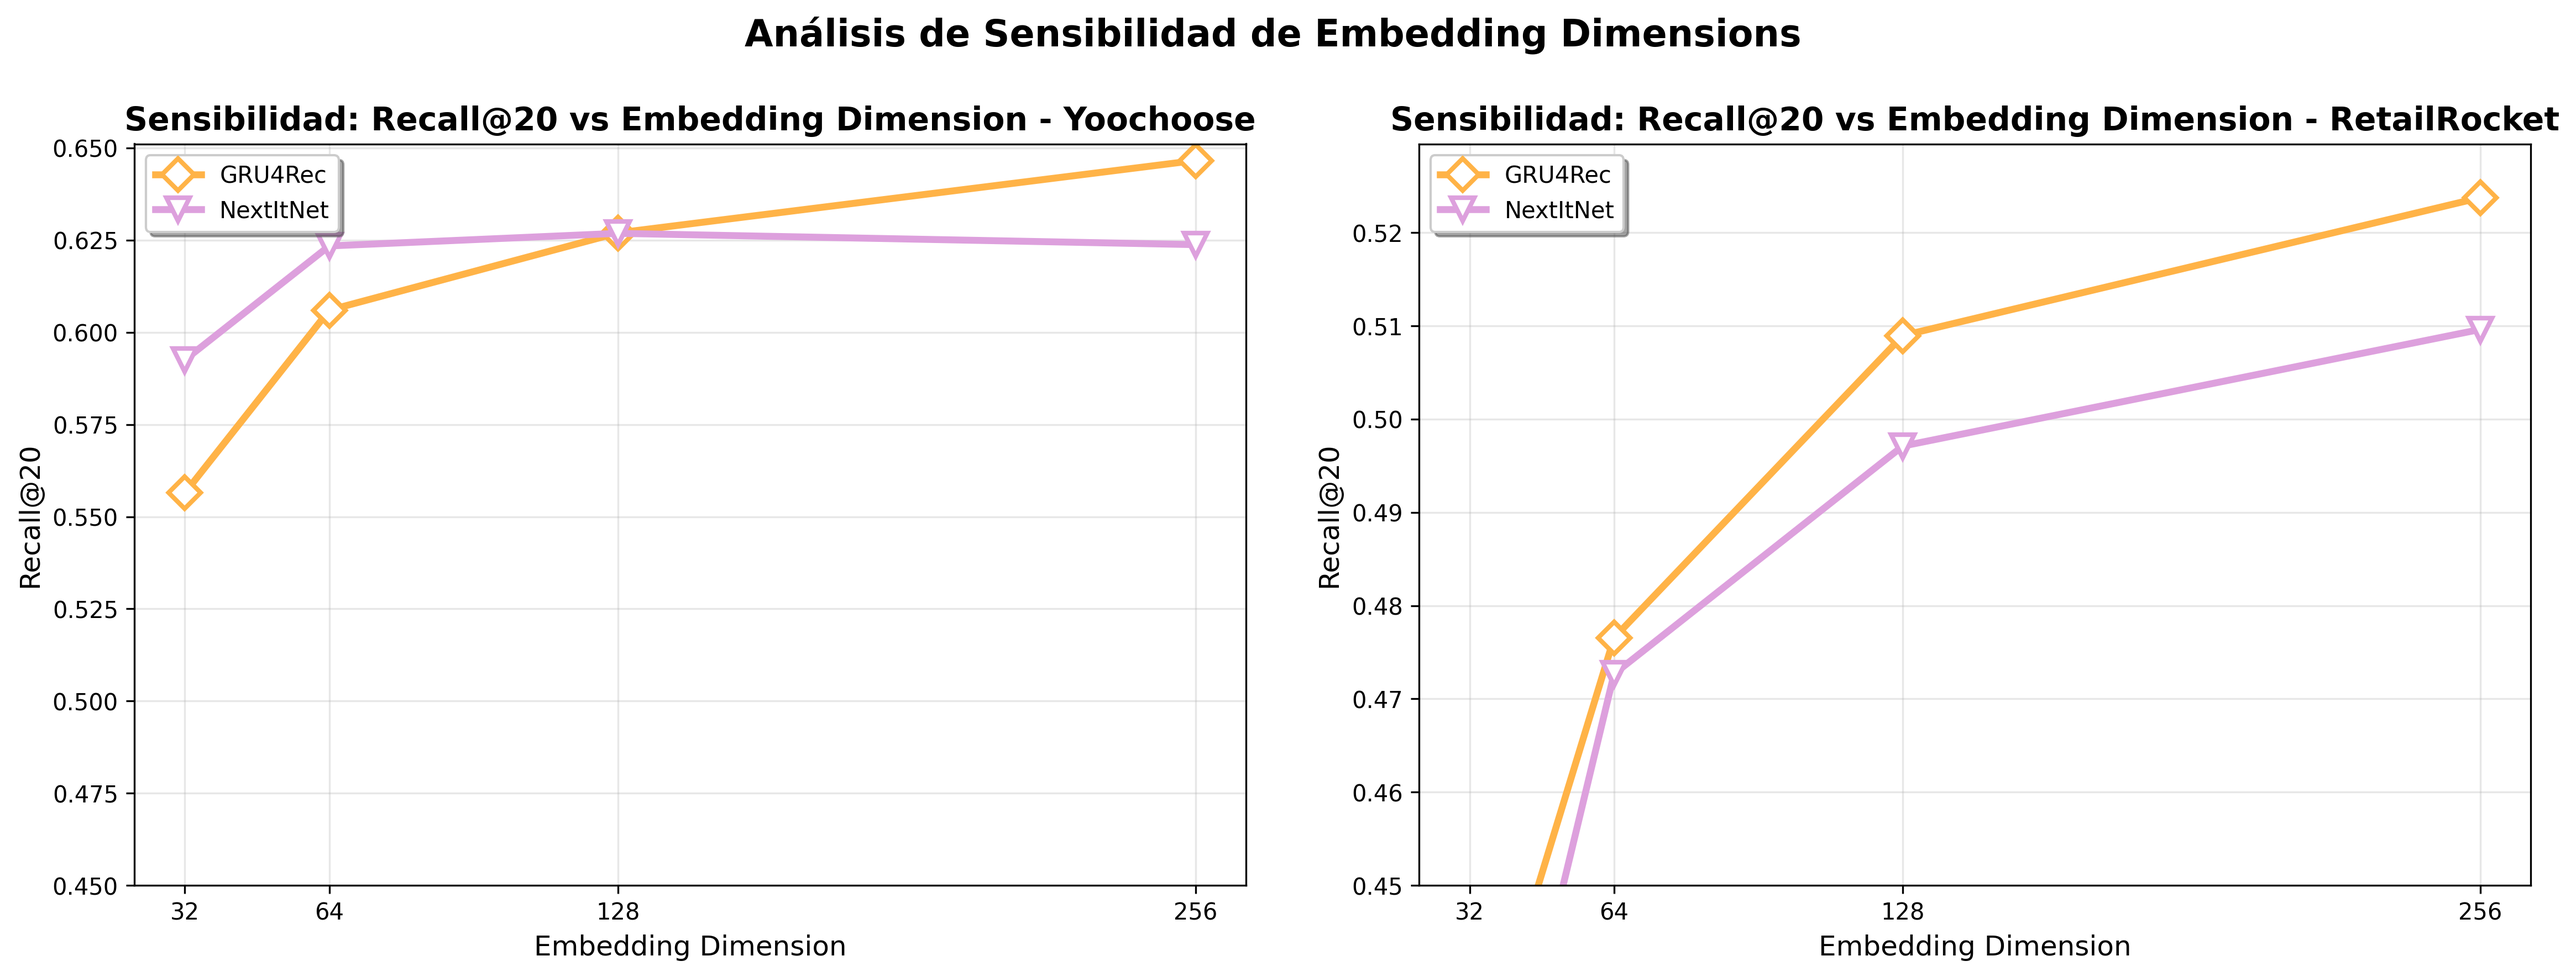
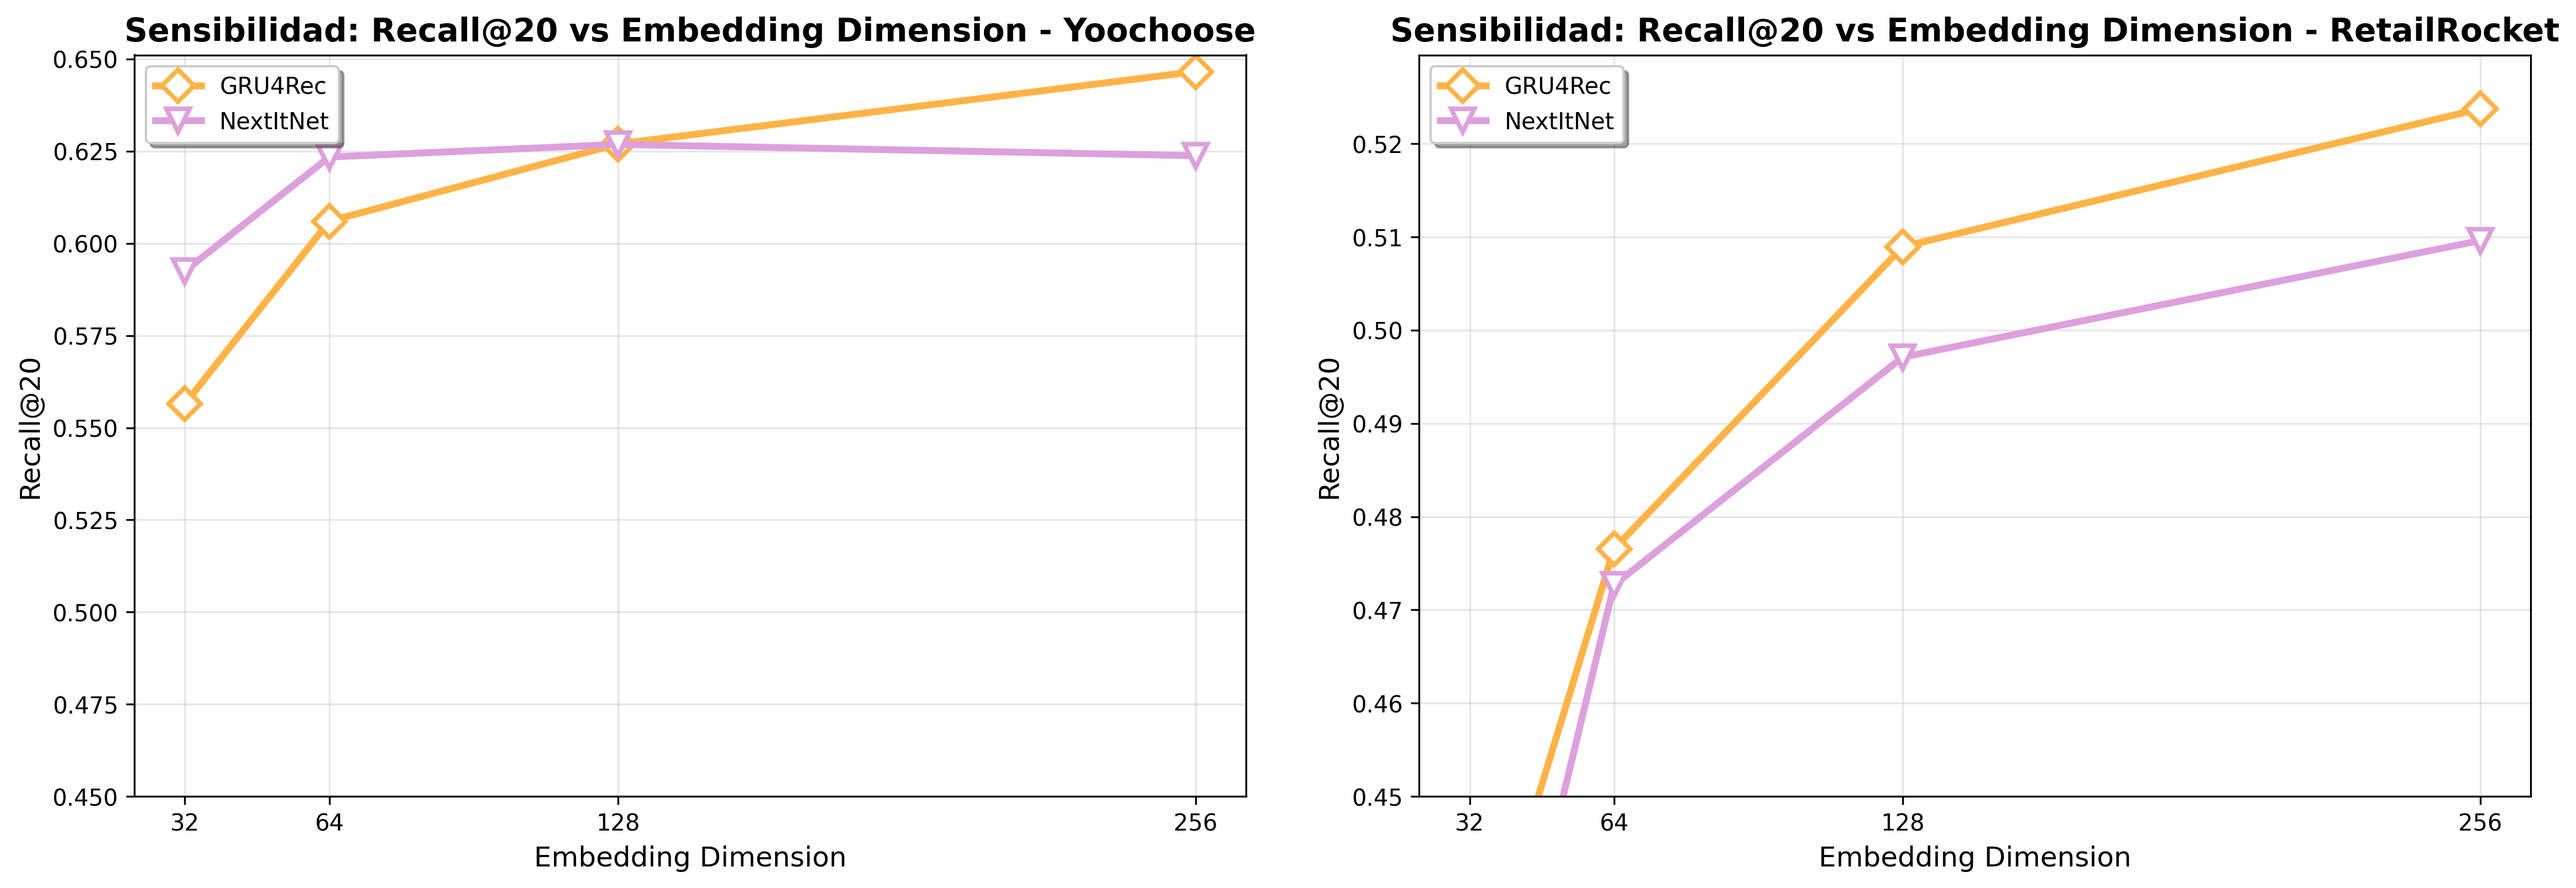
Add SASRec model support in graph_results.py, including new plots for ILD and Popularity Bias. Remove obsolete diversity_bias_analysis.png and update figure generation process to ensure all relevant graphs are created and saved in the figures directory.

diff --git a/graph_results.py b/graph_results.py
@@ -30,6 +30,8 @@ def load_results(outputs_dir="outputs"):
         'GRU_RetailRocket': ('RetailRocket', 'GRU4Rec'),
         'NextItNet_Yoochoose': ('Yoochoose', 'NextItNet'),
         'NextItNet_RetailRocket': ('RetailRocket', 'NextItNet'),
+        'SASRec_Yoochoose': ('Yoochoose', 'SASRec'),
+        'SASRec_RetailRocket': ('RetailRocket', 'SASRec'),
         'ItemKNN_Yoochoose': ('Yoochoose', 'ItemKNN'),
         'ItemKNN_RetailRocket': ('RetailRocket', 'ItemKNN'),
         'Popularity_Yoochoose': ('Yoochoose', 'Popularity'),
@@ -42,6 +44,7 @@ def load_results(outputs_dir="outputs"):
     file_mapping = {
         'GRU4Rec': 'gru4rec_results.json',
         'NextItNet': 'nextitnet_results.json',
+        'SASRec': 'SASRec_results.json',
         'ItemKNN': 'itemknn_results.json',
         'Popularity': 'popularity_results.json',
         'Random': 'random_results.json'
@@ -51,6 +54,7 @@ def load_results(outputs_dir="outputs"):
     yoochoose_files = {
         'GRU4Rec': 'gru4rec_yc_results.json',
         'NextItNet': 'nextitnet_yc_results.json',
+        'SASRec': 'SASRec_yc_results.json',
         'ItemKNN': 'itemknn_yc_results.json',
         'Popularity': 'popularity_yc_results.json',
         'Random': 'random_yc_results.json'
@@ -60,6 +64,7 @@ def load_results(outputs_dir="outputs"):
     retailrocket_files = {
         'GRU4Rec': 'gru4rec_results.json',
         'NextItNet': 'nextitnet_results.json',
+        'SASRec': 'SASRec_results.json',
         'ItemKNN': 'itemknn_retailrocket_results.json',
         'Popularity': 'popularity_retailrocket_results.json',
         'Random': 'random_retailrocket_results.json'
@@ -108,7 +113,8 @@ def create_comparison_plots(results):
         'Popularity': '#4ECDC4',  # Verde azulado
         'ItemKNN': '#6B73FF',     # Azul
         'GRU4Rec': '#FFB347',     # Naranja
-        'NextItNet': '#DDA0DD'    # Púrpura claro
+        'NextItNet': '#DDA0DD',   # Púrpura claro
+        'SASRec': '#000000'       # Negro
     }
     
     # Marcadores para cada modelo
@@ -117,7 +123,8 @@ def create_comparison_plots(results):
         'Popularity': 's',
         'ItemKNN': '^',
         'GRU4Rec': 'D',
-        'NextItNet': 'v'
+        'NextItNet': 'v',
+        'SASRec': 'x'
     }
     
     k_values = [5, 10, 20]
@@ -148,7 +155,7 @@ def create_comparison_plots(results):
         ax.grid(True, alpha=0.3)
         
         # Plotear cada modelo
-        for model in ['Random', 'Popularity', 'ItemKNN', 'GRU4Rec', 'NextItNet']:
+        for model in ['Random', 'Popularity', 'ItemKNN', 'GRU4Rec', 'NextItNet', 'SASRec']:
             if model in results[dataset]:
                 model_data = results[dataset][model]
                 
@@ -185,8 +192,8 @@ def create_comparison_plots(results):
     plt.tight_layout(pad=3.0)
     
     # Título general
-    fig.suptitle('Comparación de Modelos de Recomendación - Recall@K y MRR@K', 
-                 fontsize=16, fontweight='bold', y=0.98)
+    # fig.suptitle('Comparación de Modelos de Recomendación - Recall@K y MRR@K', 
+    #              fontsize=16, fontweight='bold', y=0.98)
     
     # Guardar el gráfico
     plt.savefig('figures/model_comparison_results.png', dpi=300, bbox_inches='tight')
@@ -197,7 +204,7 @@ def create_comparison_plots(results):
 
 def create_diversity_bias_plots(results):
     """
-    Crea los 4 gráficos de ILD y Popularity Bias (2 métricas × 2 datasets)
+    Crea gráficos de ILD y Popularity Bias en imágenes separadas
     """
     # Configuración de estilo
     plt.style.use('default')
@@ -208,48 +215,43 @@ def create_diversity_bias_plots(results):
         'Popularity': '#4ECDC4',  # Verde azulado
         'ItemKNN': '#6B73FF',     # Azul
         'GRU4Rec': '#FFB347',     # Naranja
-        'NextItNet': '#DDA0DD'    # Púrpura claro
+        'NextItNet': '#DDA0DD',   # Púrpura claro
+        'SASRec': '#000000'       # Negro
     }
     
-    # Crear figura con 4 subplots (2x2)
-    fig, axes = plt.subplots(2, 2, figsize=(16, 12))
+    # Crear directorio si no existe
+    os.makedirs('figures', exist_ok=True)
     
-    # Títulos para cada subplot
-    titles = [
+    # ========== GRÁFICO 1: ILD ==========
+    fig1, axes1 = plt.subplots(1, 2, figsize=(16, 6), constrained_layout=True)
+    
+    titles_ild = [
         'ILD para Top-10 Recomendaciones - Yoochoose',
-        'Popularity Bias para Top-10 - Yoochoose',
-        'ILD para Top-10 Recomendaciones - RetailRocket',
-        'Popularity Bias para Top-10 - RetailRocket'
+        'ILD para Top-10 Recomendaciones - RetailRocket'
     ]
     
-    # Configuraciones para cada subplot
-    plot_configs = [
-        ('Yoochoose', 'ild_10', 'Intra-List Diversity (ILD)', axes[0, 0]),
-        ('Yoochoose', 'popularity_bias_10', 'Popularity Bias', axes[0, 1]),
-        ('RetailRocket', 'ild_10', 'Intra-List Diversity (ILD)', axes[1, 0]),
-        ('RetailRocket', 'popularity_bias_10', 'Popularity Bias', axes[1, 1])
-    ]
+    datasets = ['Yoochoose', 'RetailRocket']
     
-    for i, (dataset, metric, ylabel, ax) in enumerate(plot_configs):
-        ax.set_title(titles[i], fontsize=14, fontweight='bold')
-        ax.set_ylabel(ylabel, fontsize=12)
-        ax.set_ylim(0, 1.0)  # Ambas métricas están entre 0 y 1
-        ax.grid(True, alpha=0.3, axis='y')
+    for i, (dataset, ax) in enumerate(zip(datasets, axes1)):
+        ax.set_title(titles_ild[i], fontsize=14, fontweight='bold')
+        ax.set_ylabel('Intra-List Diversity (ILD)', fontsize=12)
+        ax.set_ylim(0, 1.0)
+        ax.grid(True, alpha=0.3)
         
-        # Recopilar datos para este dataset
+        # Recopilar datos para ILD
         models = []
         values = []
         model_colors = []
         
-        for model in ['Random', 'Popularity', 'ItemKNN', 'GRU4Rec', 'NextItNet']:
+        for model in ['Random', 'Popularity', 'ItemKNN', 'GRU4Rec', 'NextItNet', 'SASRec']:
             if model in results[dataset]:
                 model_data = results[dataset][model]
-                if metric in model_data:
+                if 'ild_10' in model_data:
                     models.append(model)
-                    values.append(model_data[metric])
+                    values.append(model_data['ild_10'])
                     model_colors.append(colors[model])
         
-        if models:  # Solo plotear si hay datos
+        if models:
             # Crear gráfico de barras
             bars = ax.bar(models, values, color=model_colors, alpha=0.8, edgecolor='black', linewidth=1.5)
             
@@ -259,28 +261,87 @@ def create_diversity_bias_plots(results):
                 ax.text(bar.get_x() + bar.get_width()/2., height + 0.02,
                        f'{value:.2f}', ha='center', va='bottom', fontweight='bold', fontsize=11)
             
-            # Rotar etiquetas del eje X para mejor legibilidad
+            # Rotar etiquetas del eje X
             ax.tick_params(axis='x', rotation=45)
         else:
             ax.text(0.5, 0.5, 'No hay datos disponibles', ha='center', va='center', 
                    transform=ax.transAxes, fontsize=12, style='italic')
     
-    # Ajustar layout
-    plt.tight_layout(pad=3.0)
+    # Layout automático con constrained_layout
+    # plt.tight_layout(pad=2.5)  # No necesario con constrained_layout=True
     
-    # Título general
-    fig.suptitle('Análisis de Diversidad (ILD) y Sesgo de Popularidad', 
-                 fontsize=16, fontweight='bold', y=0.98)
+    # Título general para ILD
+    # fig1.suptitle('Análisis de Diversidad Intra-Lista (ILD)', 
+    #              fontsize=16, fontweight='bold', y=0.95)
     
-    # Crear directorio si no existe
-    os.makedirs('figures', exist_ok=True)
-    
-    # Guardar el gráfico
-    plt.savefig('figures/diversity_bias_analysis.png', dpi=300, bbox_inches='tight')
+    # Guardar gráfico de ILD
+    plt.savefig('figures/ild_analysis.png', dpi=300, bbox_inches='tight', 
+                facecolor='white', edgecolor='none')
     plt.show()
+    plt.close()
     
+    print("✅ Gráfico de ILD generado: figures/ild_analysis.png")
+
+    return
+    
+    # ========== GRÁFICO 2: POPULARITY BIAS ==========
+    fig2, axes2 = plt.subplots(1, 2, figsize=(16, 6))
+    
+    titles_bias = [
+        'Popularity Bias para Top-10 - Yoochoose',
+        'Popularity Bias para Top-10 - RetailRocket'
+    ]
+    
+    for i, (dataset, ax) in enumerate(zip(datasets, axes2)):
+        ax.set_title(titles_bias[i], fontsize=14, fontweight='bold')
+        ax.set_ylabel('Popularity Bias', fontsize=12)
+        ax.set_ylim(0, 1.0)
+        ax.grid(True, alpha=0.3)
+        
+        # Recopilar datos para Popularity Bias
+        models = []
+        values = []
+        model_colors = []
+        
+        for model in ['Random', 'Popularity', 'ItemKNN', 'GRU4Rec', 'NextItNet', 'SASRec']:
+            if model in results[dataset]:
+                model_data = results[dataset][model]
+                if 'popularity_bias_10' in model_data:
+                    models.append(model)
+                    values.append(model_data['popularity_bias_10'])
+                    model_colors.append(colors[model])
+        
+        if models:
+            # Crear gráfico de barras
+            bars = ax.bar(models, values, color=model_colors, alpha=0.8, edgecolor='black', linewidth=1.5)
+            
+            # Agregar valores encima de las barras
+            for bar, value in zip(bars, values):
+                height = bar.get_height()
+                ax.text(bar.get_x() + bar.get_width()/2., height + 0.02,
+                       f'{value:.2f}', ha='center', va='bottom', fontweight='bold', fontsize=11)
+            
+            # Rotar etiquetas del eje X
+            ax.tick_params(axis='x', rotation=45)
+        else:
+            ax.text(0.5, 0.5, 'No hay datos disponibles', ha='center', va='center', 
+                   transform=ax.transAxes, fontsize=12, style='italic')
+    
+    # Ajustar manualmente los márgenes para evitar problemas de layout
+    fig2.subplots_adjust(top=0.88, bottom=0.15, left=0.08, right=0.95, wspace=0.3)
+    
+    # Título general para Popularity Bias
+    # fig2.suptitle('Análisis de Sesgo de Popularidad', 
+    #              fontsize=14, fontweight='bold', y=0.95)
+    
+    # Guardar gráfico de Popularity Bias
+    plt.savefig('figures/popularity_bias_analysis.png', dpi=200, bbox_inches='tight', 
+                facecolor='white', edgecolor='none')
+    plt.show()
+    plt.close()
+    
+    print("✅ Gráfico de Popularity Bias generado: figures/popularity_bias_analysis.png")
     print("✅ Gráficos de diversidad y sesgo generados exitosamente!")
-    print("📊 Archivo guardado: figures/diversity_bias_analysis.png")
 
 def print_summary(results):
     """
@@ -320,7 +381,9 @@ def load_sensitivity_results(outputs_dir="outputs"):
         'GRU4Rec_Yoochoose': ('Yoochoose', 'GRU4Rec', 'gru4rec_yc_sensitivity_analysis.json'),
         'GRU_RetailRocket': ('RetailRocket', 'GRU4Rec', 'gru4rec_sensitivity_analysis.json'),
         'NextItNet_Yoochoose': ('Yoochoose', 'NextItNet', 'nextitnet_yc_sensitivity_analysis.json'),
-        'NextItNet_RetailRocket': ('RetailRocket', 'NextItNet', 'nextitnet_sensitivity_analysis.json')
+        'NextItNet_RetailRocket': ('RetailRocket', 'NextItNet', 'nextitnet_sensitivity_analysis.json'),
+        'SASRec_Yoochoose': ('Yoochoose', 'SASRec', 'SASRec_yc_sensitivity_analysis.json'),
+        'SASRec_RetailRocket': ('RetailRocket', 'SASRec', 'SASRec_sensitivity_analysis.json')
     }
     
     outputs_path = Path(outputs_dir)
@@ -352,13 +415,15 @@ def create_embedding_sensitivity_plots(sensitivity_results):
     # Colores para cada modelo
     colors = {
         'GRU4Rec': '#FFB347',     # Naranja
-        'NextItNet': '#DDA0DD'    # Púrpura claro
+        'NextItNet': '#DDA0DD',   # Púrpura claro
+        'SASRec': '#000000'       # Negro
     }
     
     # Marcadores para cada modelo
     markers = {
         'GRU4Rec': 'D',
-        'NextItNet': 'v'
+        'NextItNet': 'v',
+        'SASRec': 'x'
     }
     
     # Crear figura con 2 subplots (1x2)
@@ -379,7 +444,7 @@ def create_embedding_sensitivity_plots(sensitivity_results):
         ax.grid(True, alpha=0.3)
         
         # Plotear cada modelo
-        for model in ['GRU4Rec', 'NextItNet']:
+        for model in ['GRU4Rec', 'NextItNet', 'SASRec']:
             if model in sensitivity_results[dataset]:
                 data = sensitivity_results[dataset][model]
                 
@@ -425,8 +490,8 @@ def create_embedding_sensitivity_plots(sensitivity_results):
     plt.tight_layout(pad=3.0)
     
     # Título general
-    fig.suptitle('Análisis de Sensibilidad de Embedding Dimensions', 
-                 fontsize=16, fontweight='bold', y=1.02)
+    # fig.suptitle('Análisis de Sensibilidad de Embedding Dimensions', 
+    #             fontsize=16, fontweight='bold', y=1.02)
     
     # Crear directorio si no existe
     os.makedirs('figures', exist_ok=True)
@@ -463,22 +528,37 @@ def main():
     # Crear directorio de figuras si no existe
     os.makedirs('figures', exist_ok=True)
     
-    # Crear gráficos de Recall y MRR
-    create_comparison_plots(results)
-    
-    print(f"\n🎨 Generando gráficos de diversidad y sesgo...")
-    
-    # Crear gráficos de ILD y Popularity Bias
-    create_diversity_bias_plots(results)
-    
-    print(f"\n📈 Generando gráficos de sensibilidad de embeddings...")
-    
-    # Cargar y crear gráficos de sensibilidad
-    sensitivity_results = load_sensitivity_results()
-    create_embedding_sensitivity_plots(sensitivity_results)
-    
-    print("\n🎉 ¡Proceso completado exitosamente!")
-    print("📁 Todos los gráficos guardados en el directorio 'figures/'")
+    try:
+        # Crear gráficos de Recall y MRR
+        print("📈 Generando gráficos de Recall@K y MRR@K...")
+        create_comparison_plots(results)
+        
+        # Limpiar memoria
+        plt.close('all')
+        
+        print(f"\n🎨 Generando gráficos de diversidad y sesgo...")
+        
+        # Crear gráficos de ILD y Popularity Bias
+        create_diversity_bias_plots(results)
+        
+        # Limpiar memoria
+        plt.close('all')
+        
+        print(f"\n📈 Generando gráficos de sensibilidad de embeddings...")
+        
+        # Cargar y crear gráficos de sensibilidad
+        sensitivity_results = load_sensitivity_results()
+        create_embedding_sensitivity_plots(sensitivity_results)
+        
+        # Limpiar memoria final
+        plt.close('all')
+        
+        print("\n🎉 ¡Proceso completado exitosamente!")
+        print("📁 Todos los gráficos guardados en el directorio 'figures/'")
+        
+    except Exception as e:
+        print(f"❌ Error durante la generación de gráficos: {e}")
+        print("💡 Intenta ejecutar el script nuevamente o revisa los archivos de datos")
 
 if __name__ == "__main__":
     main()
